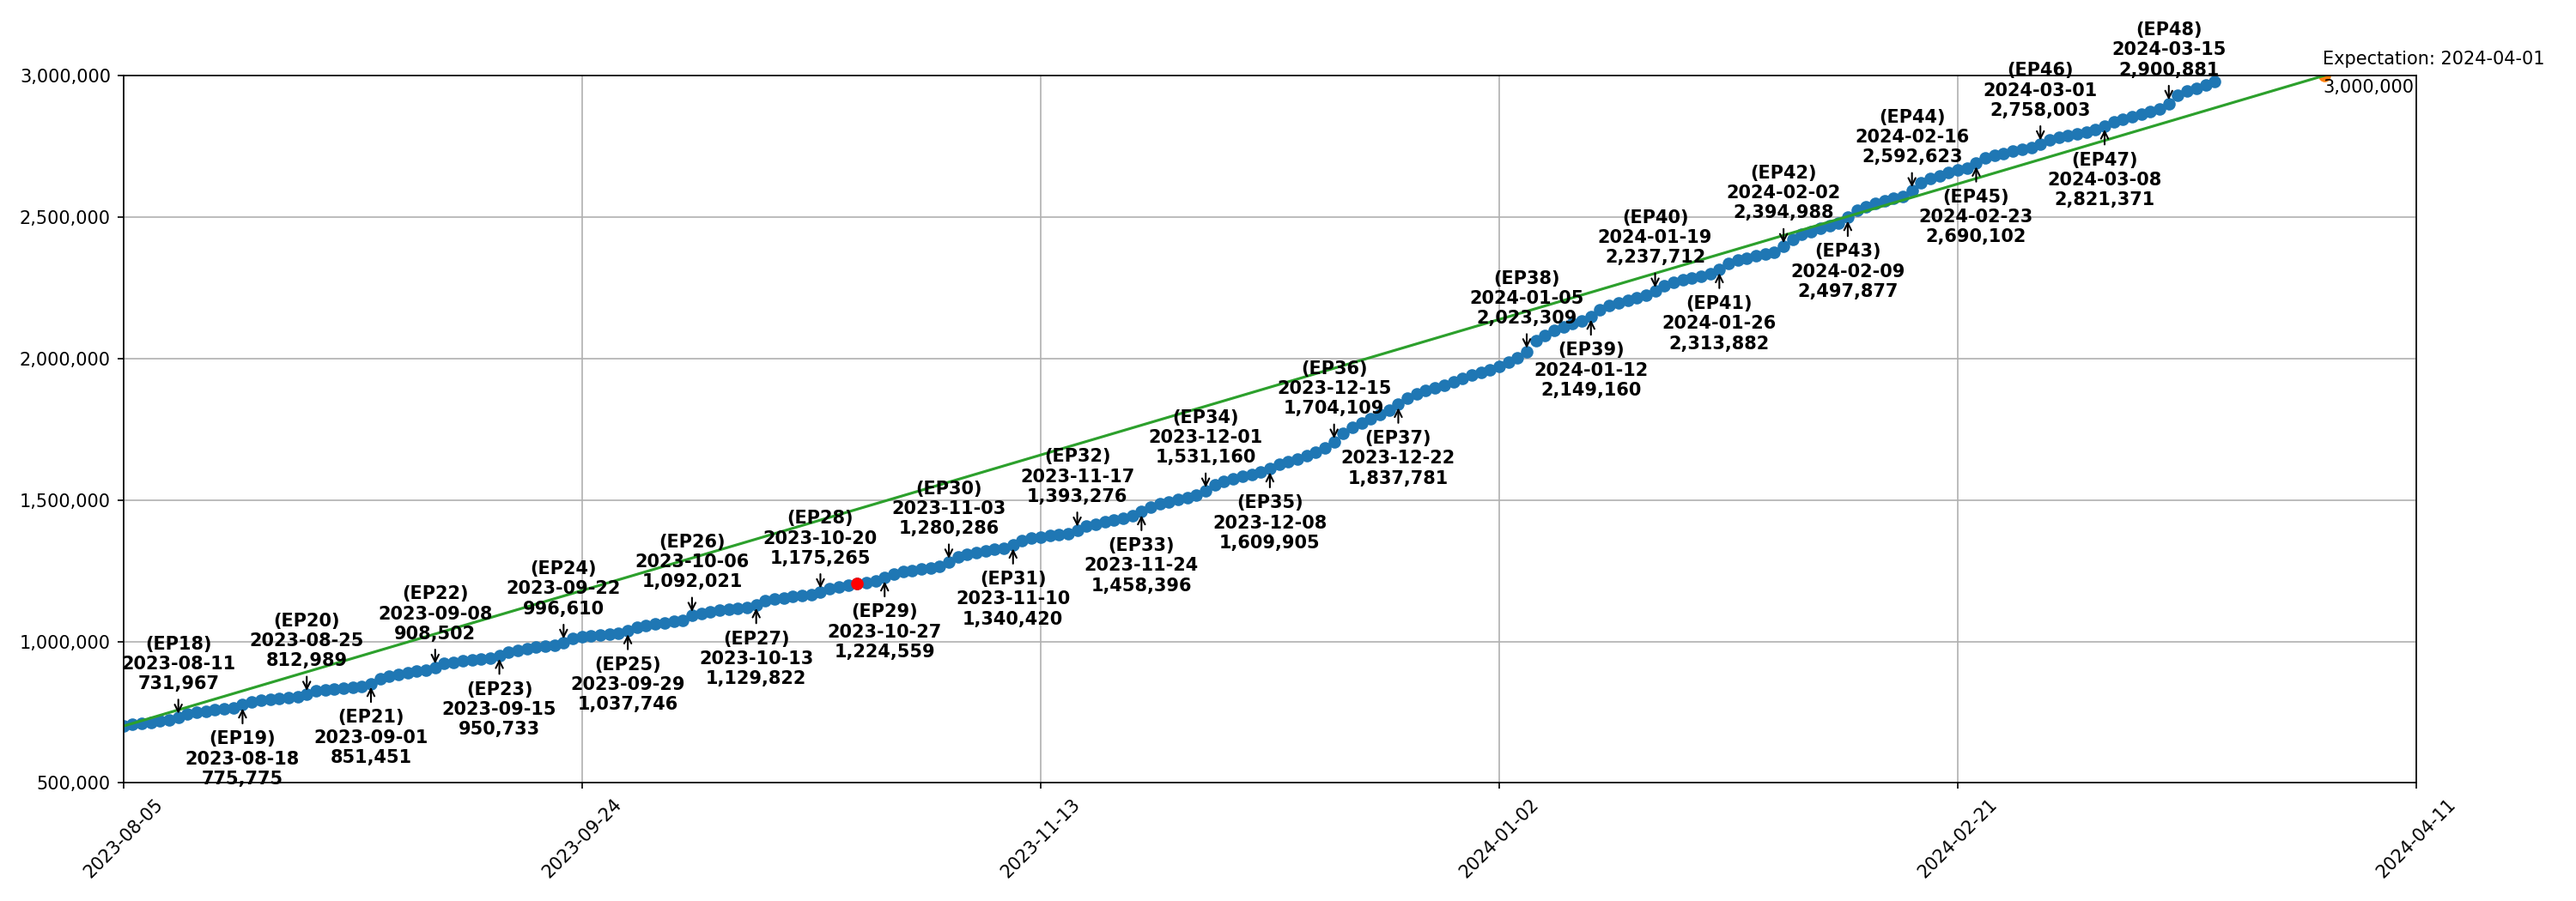
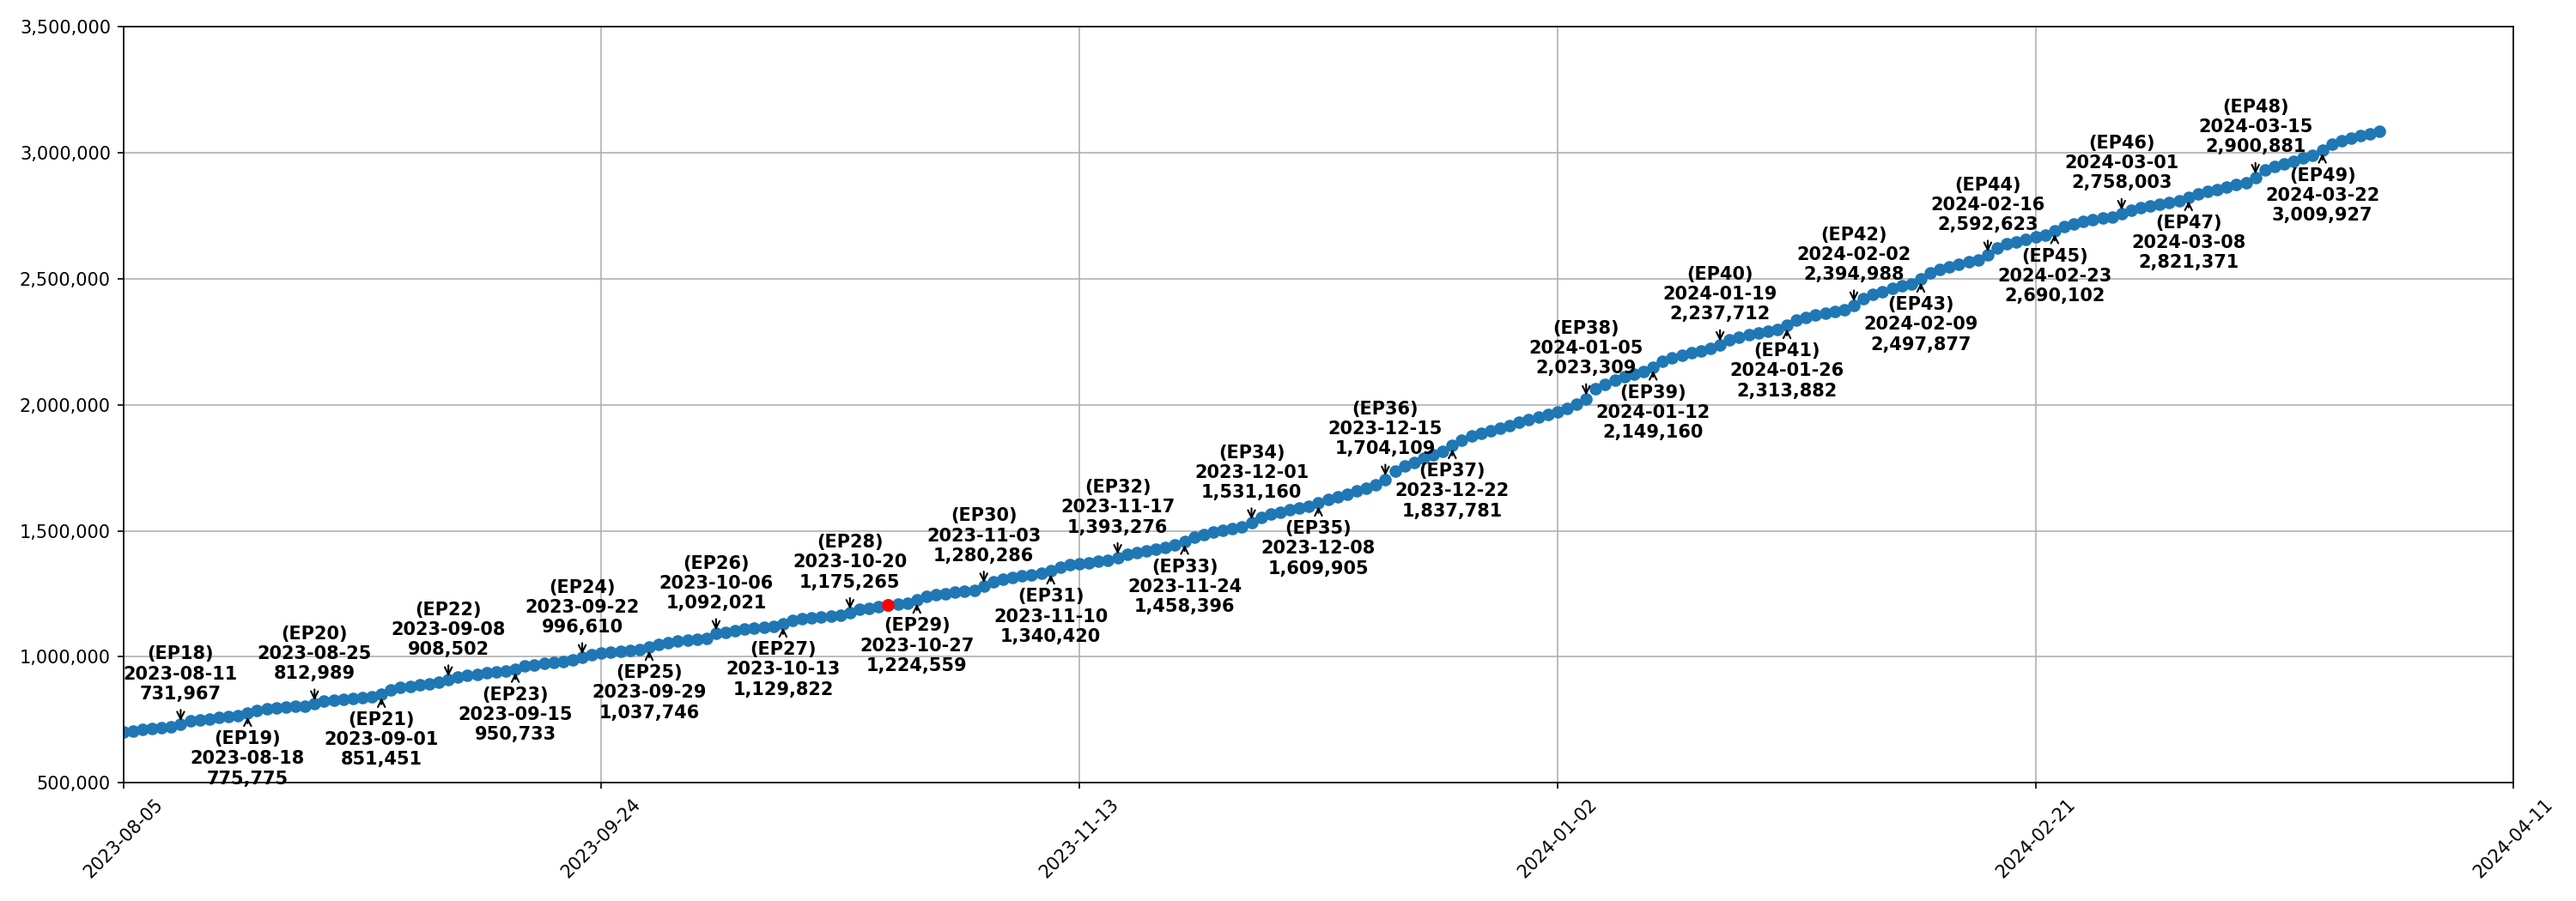
Prediction Update / Record Update

diff --git a/src/routes/+page.svelte b/src/routes/+page.svelte
@@ -17,7 +17,10 @@
 
 	let open = false;
 
-	const stepSuccessDetails = [`${$t('step.scDetailPrefix')}03:50${$t('step.scDetailSuffix')}`];
+	const stepSuccessDetails = [
+		`${$t('step.scDetailPrefix')}03:50${$t('step.scDetailSuffix')}`,
+		`${$t('step.scDetailPrefix')}12:00${$t('step.scDetailSuffix')}`
+	];
 	const stepEndDetails = ['#17'];
 
 	let sortMode = 0; // 0: desc, 1: asc, 2: view desc, 3: view asc
@@ -85,8 +88,6 @@
 </svelte:head>
 
 <section>
-	
-
 	<Dialog
 		bind:open
 		sheet

diff --git a/src/lib/prediction.py b/src/lib/prediction.py
@@ -30,7 +30,7 @@ prediction = line_fitter.predict([[goal]])
 
 plt.figure(figsize=(20, 7))
 # plt.ylim(600000, y[len(df) - 1] + 100000)  # y축 범위
-plt.ylim(600000, 3000000)  # y축 범위
+plt.ylim(600000, 3500000)  # y축 범위
 # plt.xlim(0, len(df))  # x축 범위
 plt.xlim(0, prediction)
 plt.plot(X, y, "o")  # 기록 데이터
@@ -38,24 +38,24 @@ for i in successedDate:
     plt.plot(X[i], y[i], "o", color="red")  # 성공 데이터
 # 예측기능 범위 시작
 
-plt.plot(math.ceil(prediction[0]), predictor, "o")  # 예측 데이터
+# plt.plot(math.ceil(prediction[0]), predictor, "o")  # 예측 데이터
 # 예측량 주석
-plt.annotate(
-    "Expectation: "
-    + (startingDate + datetime.timedelta(days=math.ceil(prediction[0]))).strftime(
-        "%Y-%m-%d"
-    ),
-    xy=(prediction[0], predictor),
-    xytext=(prediction[0], predictor + 40000),
-    ha="left",
-)
+# plt.annotate(
+#     "Expectation: "
+#     + (startingDate + datetime.timedelta(days=math.ceil(prediction[0]))).strftime(
+#         "%Y-%m-%d"
+#     ),
+#     xy=(prediction[0], predictor),
+#     xytext=(prediction[0], predictor + 40000),
+#     ha="left",
+# )
 # 기록 주석
-plt.annotate(
-    format(goal, ","),
-    xy=(prediction[0], predictor),
-    xytext=(prediction[0], predictor - 60000),
-    ha="left",
-)
+# plt.annotate(
+#     format(goal, ","),
+#     xy=(prediction[0], predictor),
+#     xytext=(prediction[0], predictor - 60000),
+#     ha="left",
+# )
 
 # 예측기능 범위 끝
 
@@ -86,7 +86,7 @@ for i in range(len(X)):
         else:
             placing = 100000
 # 예측기능 범위 시작
-plt.plot([X[0], math.ceil(prediction[0])], [y[0], predictor])  # 증가량 예측 직선
+# plt.plot([X[0], math.ceil(prediction[0])], [y[0], predictor])  # 증가량 예측 직선
 # 예측기능 범위 끝
 
 # plt.plot(line_fitter.predict(y.values.reshape(-1, 1)), y, "-")
